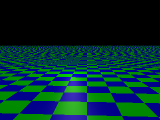
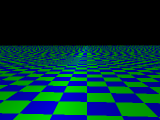
almost finish

Changed region(s): [[0.0, 0.625, 0.8125, 1.0], [0.375, 0.375, 0.625, 0.6], [0.6562, 0.375, 0.9062, 0.4]]

diff --git a/comp557F18/comp557/a4/Scene.java b/comp557F18/comp557/a4/Scene.java
@@ -48,7 +48,7 @@ public class Scene {
         
         FastPoissonDisk disk = new FastPoissonDisk(0.05);
         FastPoissonDisk lightDisk = new FastPoissonDisk(0.05);
-        
+		int NN = 0;
         for ( int i = 0; i < h && !render.isDone(); i++ ) {
             for ( int j = 0; j < w && !render.isDone(); j++ ) {
             	
@@ -62,7 +62,7 @@ public class Scene {
             	//render.samples = 1;            	
             	for(int k = 0; k<render.samples;k++) {
             		for(int m = 0;m<render.samples;m++) {
-            			//ANTI-Aliasing;
+        				//ANTI-Aliasing;
         				//Depth Of field
             			double x = 0;
             			double y = 0;
@@ -84,6 +84,7 @@ public class Scene {
 		            	IntersectResult fir = new IntersectResult();
 		                //System.out.println(surfaceList.size());
 		            	for(Intersectable intersectable : surfaceList) {
+		            		//System.out.println(intersectable.movable);
 		            		IntersectResult ir = new IntersectResult();
 		            		intersectable.intersect(ray, ir);
 		            		if(ir.t<=fir.t) {
@@ -171,7 +172,8 @@ public class Scene {
 		//System.out.println(offseti + ", "+ offsetj);
 		Point3d e = new Point3d(cam.from.x+x, cam.from.y+y, cam.from.z);
 		//System.out.println(e);
-		double d = e.z;
+		Vector3d dd = new Vector3d(cam.to.x-e.x, cam.to.y-e.y, cam.to.z-e.z);
+		double d = Math.sqrt(dd.x*dd.x+dd.y*dd.y+dd.z*dd.z);
 		double angle = cam.fovy*Math.PI/180;
 		double t = d*Math.tan(angle/2);
 		double b = -t;

diff --git a/comp557F18/comp557/a4/Parser.java b/comp557F18/comp557/a4/Parser.java
@@ -53,6 +53,7 @@ public class Parser {
         		scene.surfaceList.add( box );
             } else if ( nodeName.equalsIgnoreCase( "sphere" ) ) {
         		Sphere sphere = Parser.createSphere(n);
+        		System.out.println(sphere.movable);
         		scene.surfaceList.add( sphere );
             } else if ( nodeName.equalsIgnoreCase( "mesh" ) ) {
             	Mesh mesh = Parser.createMesh(n);
@@ -373,6 +374,17 @@ public class Parser {
 		Node radiusAttr = dataNode.getAttributes().getNamedItem("radius");
 		if ( radiusAttr != null ) {
 			sphere.radius = Double.parseDouble( radiusAttr.getNodeValue() );
+		}
+		Node movableAttr = dataNode.getAttributes().getNamedItem("movable");
+		if(movableAttr!=null) {
+			//System.out.println("Was here");
+			sphere.movable =  true;
+			//System.out.println(sphere.movable);
+			Scanner s = new Scanner(movableAttr.getNodeValue());
+			double x= s.nextDouble();
+			double y = s.nextDouble();
+			double z = s.nextDouble();
+			sphere.distancePerFrame = new Point3d(x, y, z);
 		}
 		sphere.material = parseMaterial(dataNode, "material");	
     	return sphere;

diff --git a/comp557F18/comp557/a4/Sphere.java b/comp557F18/comp557/a4/Sphere.java
@@ -14,6 +14,8 @@ public class Sphere extends Intersectable {
     
 	/** Location of the sphere center. */
 	public Point3d center = new Point3d( 0, 0, 0 );
+	
+	
     
     /**
      * Default constructor
@@ -29,7 +31,7 @@ public class Sphere extends Intersectable {
      * @param center
      * @param material
      */
-    public Sphere( double radius, Point3d center, Material material ) {
+    public Sphere( double radius, Point3d center, Material material, boolean movable) {
     	super();
     	this.radius = radius;
     	this.center = center;

diff --git a/comp557F18/comp557/a4/Intersectable.java b/comp557F18/comp557/a4/Intersectable.java
@@ -1,5 +1,7 @@
 package comp557.a4;
 
+import javax.vecmath.Point3d;
+
 /**
  * Abstract class for an intersectable surface 
  */
@@ -7,6 +9,10 @@ public abstract class Intersectable {
 	
 	/** Material for this intersectable surface */
 	public Material material;
+	
+	public boolean movable = false;
+	
+	public Point3d distancePerFrame = new Point3d(0,0,0);
 	
 	/** 
 	 * Default constructor, creates the default material for the surface
